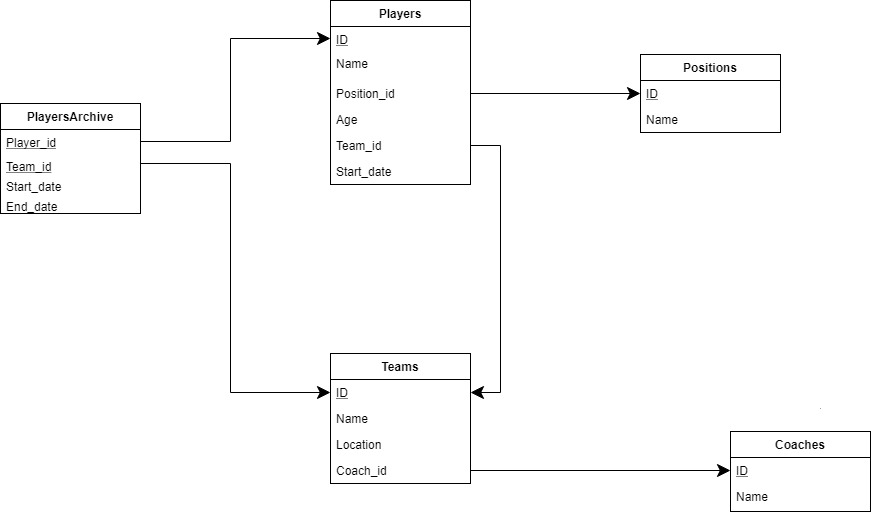
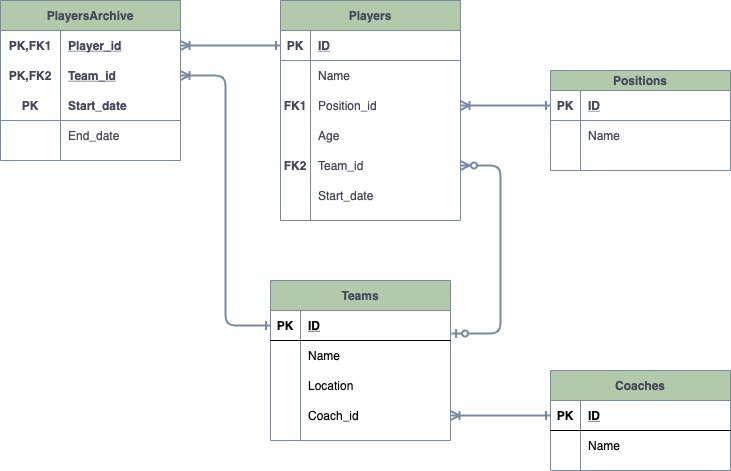
fix diagram and docker

diff --git a/docker_example/README.md b/docker_example/README.md
@@ -14,6 +14,9 @@ docker exec -it week2_postgres-hw2_1  psql -U student
 ```
 
 
+# Детали работы с windows 
+Вместо работы с grep в powershell можно использовать findstr
+
 
 # Ссылки
 
